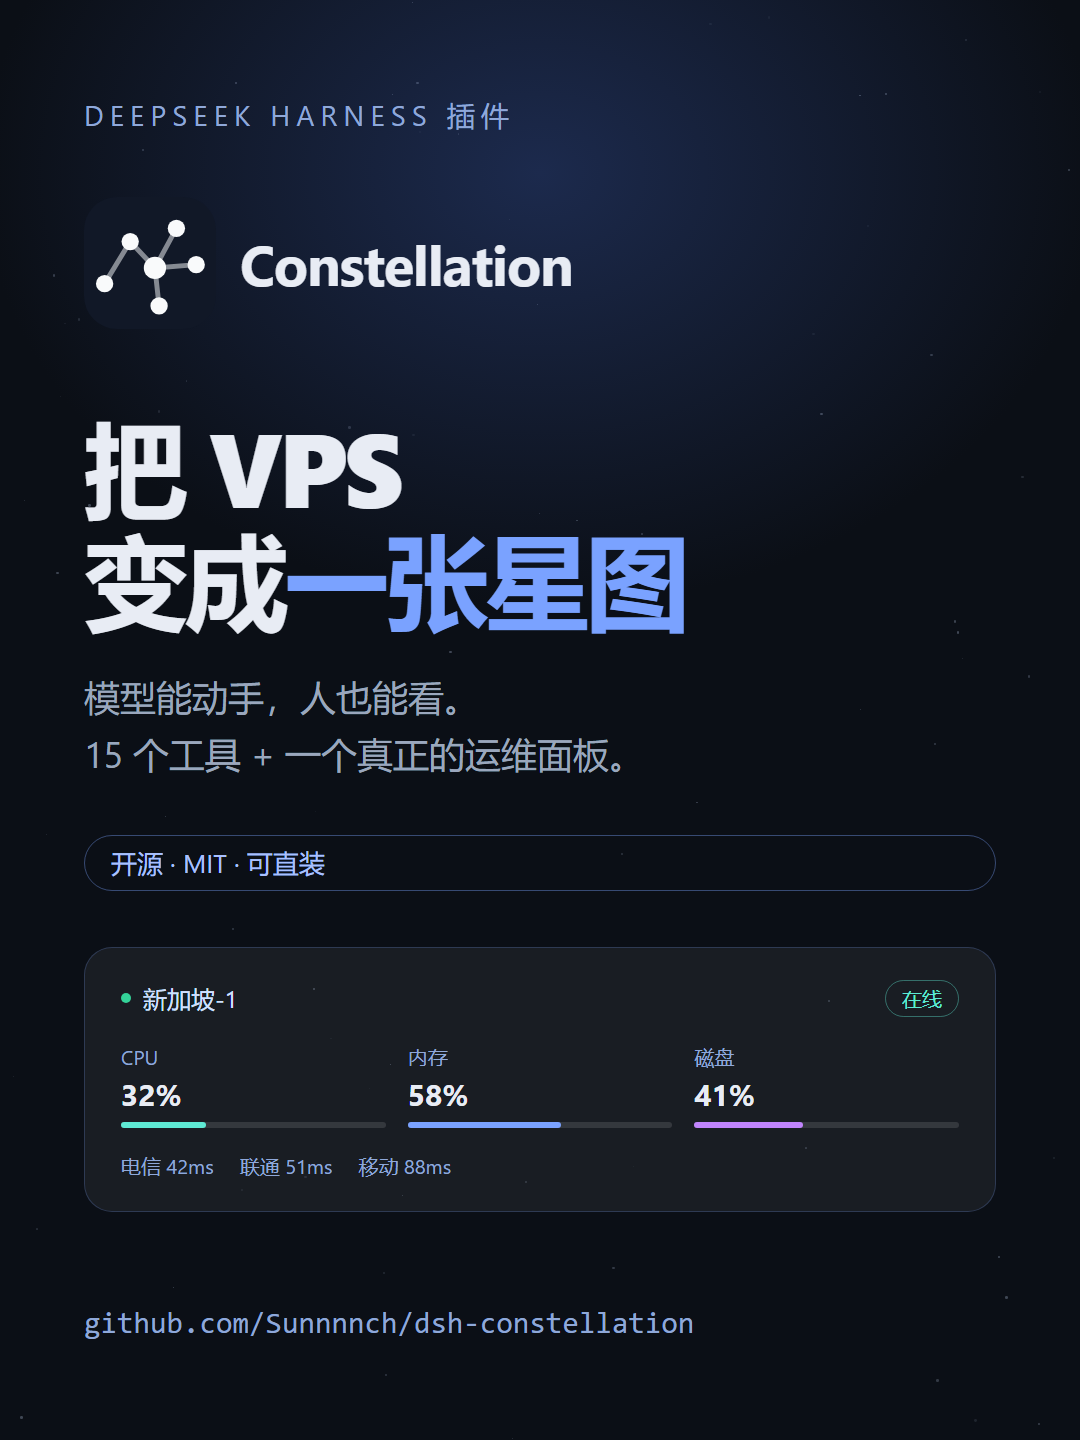
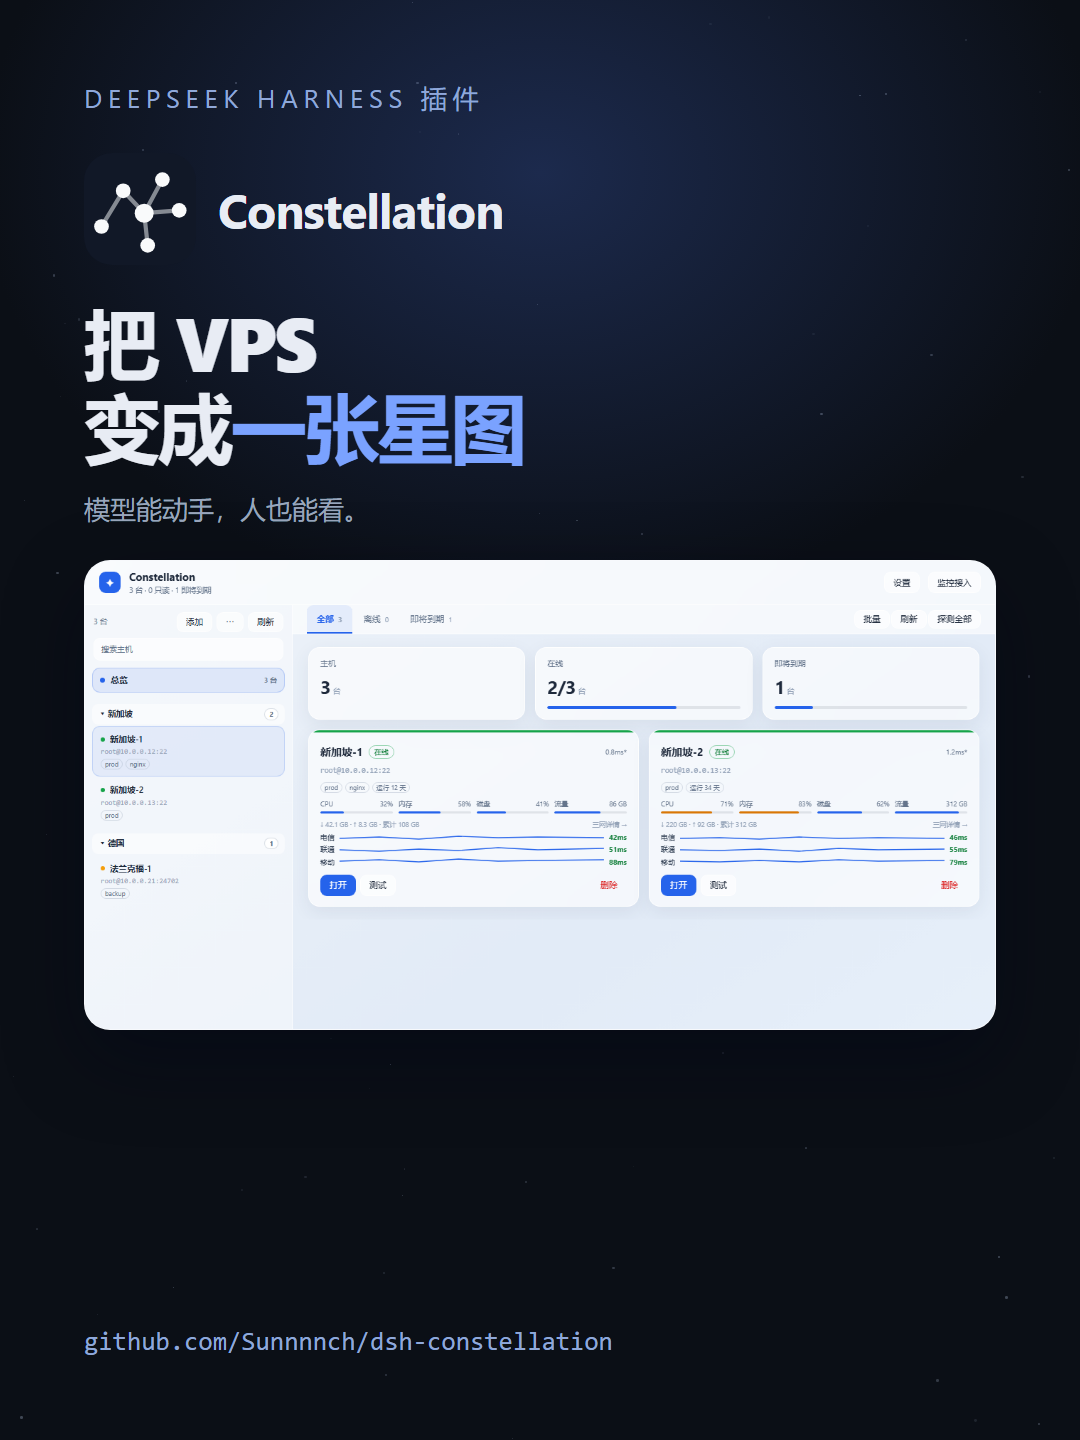
docs: rebuild Xiaohongshu carousel with real UI shots

diff --git a/marketing/xhs.html b/marketing/xhs.html
@@ -15,55 +15,64 @@
   section.dark { background: radial-gradient(900px 700px at 50% 12%, #1c2a4d 0%, #0b0f16 62%), #0b0f16; }
   section.light { background: linear-gradient(150deg, #eef3f9, #e2ebf7 55%, #e8f1fb); color: #1e293b; }
 
-  .pad { padding: 96px 84px; position: relative; display: flex; flex-direction: column; height: 100%; }
+  .pad { padding: 80px 84px; position: relative; display: flex; flex-direction: column; height: 100%; }
 
-  .kicker { font-size: 28px; letter-spacing: .22em; text-transform: uppercase; color: #8fa8d9; }
+  .kicker { font-size: 26px; letter-spacing: .22em; text-transform: uppercase; color: #8fa8d9; }
   .kicker.dim { color: #64748b; }
 
-  h1 { font-size: 104px; line-height: 1.08; font-weight: 800; letter-spacing: -.035em; margin-top: 30px; }
+  h1 { font-size: 84px; line-height: 1.1; font-weight: 800; letter-spacing: -.035em; margin-top: 24px; }
   h1 em { font-style: normal; color: #7aa2ff; }
-  .lead { font-size: 36px; line-height: 1.6; color: #9aa7bd; margin-top: 34px; }
+  .lead { font-size: 30px; line-height: 1.6; color: #9aa7bd; margin-top: 26px; }
   .lead.dark { color: #475569; }
 
-  .logo { width: 132px; height: 132px; }
-  .logo.sm { width: 92px; height: 92px; }
-  .brandline { display: flex; align-items: center; gap: 24px; }
-  .brandname { font-size: 56px; font-weight: 750; letter-spacing: -.02em; }
+  .logo { width: 112px; height: 112px; }
+  .logo.sm { width: 88px; height: 88px; }
+  .brandline { display: flex; align-items: center; gap: 22px; }
+  .brandname { font-size: 48px; font-weight: 750; letter-spacing: -.02em; }
 
   .spacer { flex: 1; }
-  .repo { font: 30px/1.4 ui-monospace, Consolas, monospace; color: #8fa8d9; }
+  .repo { font: 26px/1.4 ui-monospace, Consolas, monospace; color: #8fa8d9; }
   .repo.dark { color: #2563eb; }
 
-  .big { font-size: 220px; font-weight: 800; line-height: .9; letter-spacing: -.05em; }
-  .caps { font-size: 34px; color: #64748b; margin-top: 14px; }
+  /* UI shot */
+  .shot { border-radius: 26px; overflow: hidden; border: 1px solid rgba(255,255,255,.5); box-shadow: 0 30px 80px rgba(2,6,23,.45); background: #eef3f9; }
+  .shot img { display: block; width: 100%; height: auto; }
+  .shot.crop { height: 470px; }
+  .shot.crop img { height: 100%; object-fit: cover; object-position: top; }
+  .shot.light { border-color: rgba(255,255,255,.95); box-shadow: 0 26px 60px rgba(51,65,85,.18); }
 
-  /* cards */
-  .cards { display: flex; flex-direction: column; gap: 26px; margin-top: 54px; }
-  .row { background: rgba(255,255,255,.62); border: 1px solid rgba(255,255,255,.9); border-radius: 30px; padding: 34px 38px; display: flex; align-items: center; gap: 28px; box-shadow: 0 16px 40px rgba(51,65,85,.08); }
-  .row .ic { width: 74px; height: 74px; border-radius: 20px; background: #2563eb; color: #fff; display: grid; place-items: center; font-size: 34px; flex: none; }
-  .row h3 { font-size: 40px; font-weight: 700; }
-  .row p { font-size: 26px; color: #64748b; margin-top: 6px; line-height: 1.45; }
+  .chips { display: flex; gap: 14px; margin-top: 26px; }
+  .chip { flex: 1; background: rgba(255,255,255,.62); border: 1px solid rgba(255,255,255,.9); border-radius: 22px; padding: 20px 22px; }
+  .chip b { display: block; font-size: 30px; font-weight: 700; }
+  .chip span { font-size: 22px; color: #64748b; }
 
-  .compare { display: grid; grid-template-columns: 1fr 1fr; gap: 26px; margin-top: 60px; }
-  .col { border-radius: 30px; padding: 40px 34px; background: rgba(255,255,255,.62); border: 1px solid rgba(255,255,255,.9); }
+  /* compare */
+  .compare { display: grid; grid-template-columns: 1fr 1fr; gap: 22px; margin-top: 44px; }
+  .col { border-radius: 26px; padding: 32px 28px; background: rgba(255,255,255,.62); border: 1px solid rgba(255,255,255,.9); }
   .col.old { background: rgba(15,23,42,.06); }
-  .col h4 { font-size: 30px; color: #64748b; font-weight: 650; }
-  .col .term { margin-top: 22px; font: 24px/1.9 ui-monospace, Consolas, monospace; color: #475569; }
-  .col .nl { margin-top: 22px; font-size: 40px; font-weight: 650; line-height: 1.35; }
+  .col h4 { font-size: 26px; color: #64748b; font-weight: 650; }
+  .col .term { margin-top: 18px; font: 21px/1.9 ui-monospace, Consolas, monospace; color: #475569; }
+  .col .nl { margin-top: 18px; font-size: 32px; font-weight: 650; line-height: 1.35; }
   .col .nl b { color: #2563eb; }
 
-  .tag { display: inline-flex; align-items: center; height: 56px; padding: 0 26px; border-radius: 999px; border: 1px solid rgba(122,162,255,.4); color: #a9c0ff; font-size: 26px; }
-  .tags { display: flex; gap: 14px; flex-wrap: wrap; margin-top: 44px; }
+  /* security rows */
+  .cards { display: flex; flex-direction: column; gap: 20px; margin-top: 40px; }
+  .row { background: rgba(255,255,255,.62); border: 1px solid rgba(255,255,255,.9); border-radius: 26px; padding: 26px 30px; display: flex; align-items: center; gap: 22px; box-shadow: 0 14px 34px rgba(51,65,85,.07); }
+  .row .ic { width: 62px; height: 62px; border-radius: 18px; background: #2563eb; color: #fff; display: grid; place-items: center; font-size: 28px; flex: none; }
+  .row h3 { font-size: 34px; font-weight: 700; }
+  .row p { font-size: 23px; color: #64748b; margin-top: 4px; line-height: 1.45; }
+
+  .tag { display: inline-flex; align-items: center; height: 50px; padding: 0 24px; border-radius: 999px; border: 1px solid rgba(122,162,255,.4); color: #a9c0ff; font-size: 23px; }
 </style>
 </head>
 <body>
 
-<!-- 1 封面 -->
+<!-- 1 封面：标题 + 总览 UI -->
 <section id="s1" class="dark">
   <div class="stars" data-stars></div>
   <div class="pad">
     <div class="kicker">DeepSeek Harness 插件</div>
-    <div class="brandline" style="margin-top:64px">
+    <div class="brandline" style="margin-top:38px">
       <svg class="logo" viewBox="0 0 64 64" xmlns="http://www.w3.org/2000/svg">
         <rect width="64" height="64" rx="16" fill="#111827"/>
         <g stroke="#e5e7eb" stroke-width="2.4" stroke-linecap="round" stroke-linejoin="round" opacity=".55" fill="none">
@@ -76,22 +85,10 @@
       </svg>
       <div class="brandname">Constellation</div>
     </div>
-    <h1 style="margin-top:80px">把 VPS<br/>变成<em>一张星图</em></h1>
-    <div class="lead">模型能动手，人也能看。<br/>15 个工具 + 一个真正的运维面板。</div>
-    <div class="tag" style="margin-top:52px">开源 · MIT · 可直装</div>
-    <div style="margin-top:56px;background:rgba(255,255,255,.06);border:1px solid rgba(122,162,255,.22);border-radius:28px;padding:32px 36px">
-      <div style="display:flex;align-items:center;gap:12px;font-size:24px;color:#cfe0ff">
-        <span style="width:10px;height:10px;border-radius:50%;background:#34d399"></span>新加坡-1
-        <span style="margin-left:auto;font-size:20px;color:#5eead4;border:1px solid rgba(94,234,212,.4);border-radius:999px;padding:4px 16px">在线</span>
-      </div>
-      <div style="display:grid;grid-template-columns:repeat(3,1fr);gap:22px;margin-top:26px">
-        <div><div style="font-size:20px;color:#8fa8d9">CPU</div><div style="font-size:30px;font-weight:700;margin-top:4px">32%</div><div style="height:6px;border-radius:4px;background:rgba(255,255,255,.12);margin-top:8px"><div style="width:32%;height:100%;background:#5eead4;border-radius:4px"></div></div></div>
-        <div><div style="font-size:20px;color:#8fa8d9">内存</div><div style="font-size:30px;font-weight:700;margin-top:4px">58%</div><div style="height:6px;border-radius:4px;background:rgba(255,255,255,.12);margin-top:8px"><div style="width:58%;height:100%;background:#7aa2ff;border-radius:4px"></div></div></div>
-        <div><div style="font-size:20px;color:#8fa8d9">磁盘</div><div style="font-size:30px;font-weight:700;margin-top:4px">41%</div><div style="height:6px;border-radius:4px;background:rgba(255,255,255,.12);margin-top:8px"><div style="width:41%;height:100%;background:#c084fc;border-radius:4px"></div></div></div>
-      </div>
-      <div style="display:flex;gap:26px;margin-top:24px;font-size:20px;color:#8fa8d9">
-        <span>电信 42ms</span><span>联通 51ms</span><span>移动 88ms</span>
-      </div>
+    <h1 style="margin-top:34px;font-size:76px">把 VPS<br/>变成<em>一张星图</em></h1>
+    <div class="lead" style="margin-top:22px;font-size:26px">模型能动手，人也能看。</div>
+    <div class="shot crop" style="margin-top:30px">
+      <img src="../design/ui-overview.png" alt="总览界面" />
     </div>
     <div class="spacer"></div>
     <div class="repo">github.com/Sunnnnch/dsh-constellation</div>
@@ -102,7 +99,7 @@
 <section id="s2" class="light">
   <div class="pad">
     <div class="kicker dim">以前 vs 现在</div>
-    <h1 style="font-size:88px;margin-top:26px">不想再对着<br/>一堆 SSH 窗口</h1>
+    <h1 style="font-size:78px;margin-top:22px">不想再对着<br/>一堆 SSH 窗口</h1>
     <div class="compare">
       <div class="col old">
         <h4>以前</h4>
@@ -113,32 +110,61 @@
         <div class="nl">「看看 prod-3 的磁盘和 nginx 状态，<b>顺手重启一下</b>。」</div>
       </div>
     </div>
-    <div class="lead dark" style="margin-top:46px">模型和你用同一份清单、同一套审计，<br/>不用在聊天框和终端之间搬运。</div>
+    <div class="shot light" style="margin-top:34px;max-height:420px;overflow:hidden">
+      <img src="../design/ui-detail.png" alt="主机状态界面" style="width:100%;margin-top:-80px" />
+    </div>
     <div class="spacer"></div>
     <div class="repo dark">Constellation</div>
   </div>
 </section>
 
-<!-- 3 能力 -->
+<!-- 3 能力 + 总览图 -->
 <section id="s3" class="light">
   <div class="pad">
-    <div class="kicker dim">不只是个面板</div>
-    <h1 style="font-size:88px;margin-top:26px">看得见，<br/>也动得了</h1>
-    <div class="cards">
-      <div class="row"><div class="ic">◉</div><div><h3>状态页</h3><p>CPU / 内存 / 磁盘环形指标、24 小时曲线</p></div></div>
-      <div class="row"><div class="ic">⌘</div><div><h3>终端 · 文件 · 隧道</h3><p>SSH 会话、SFTP 传输、端口转发都在面板里</p></div></div>
-      <div class="row"><div class="ic">≋</div><div><h3>三网延迟</h3><p>服务器自己 ping 电信/联通/移动，带丢包趋势</p></div></div>
+    <div class="kicker dim">一个面板</div>
+    <h1 style="font-size:76px;margin-top:20px">看得见，<br/>也动得了</h1>
+    <div class="shot light crop" style="margin-top:32px">
+      <img src="../design/ui-overview.png" alt="总览界面" />
+    </div>
+    <div class="chips">
+      <div class="chip"><b>分组清单</b><span>按标签折叠</span></div>
+      <div class="chip"><b>三网小图</b><span>每台机器独立</span></div>
+      <div class="chip"><b>批量操作</b><span>勾选多台执行</span></div>
+    </div>
+    <div style="margin-top:26px;background:rgba(15,23,42,.94);border-radius:22px;padding:24px 30px;font:24px/1.75 ui-monospace,Consolas,monospace;color:#9fe7c8">
+      <div style="color:#8fa8d9;font-size:20px;margin-bottom:8px">模型侧，同一份清单</div>
+      vps_status · host=singapore-1<br/>
+      <span style="color:#7aa2ff">→</span> cpu 32% · mem 58% · disk 41%
     </div>
     <div class="spacer"></div>
     <div class="repo dark">github.com/Sunnnnch/dsh-constellation</div>
   </div>
 </section>
 
-<!-- 4 安全 -->
+<!-- 4 状态页 UI -->
 <section id="s4" class="light">
   <div class="pad">
+    <div class="kicker dim">单机详情</div>
+    <h1 style="font-size:76px;margin-top:20px">环形指标，<br/>三网趋势</h1>
+    <div class="shot light" style="margin-top:32px">
+      <img src="../design/ui-detail.png" alt="主机状态界面" />
+    </div>
+    <div class="chips">
+      <div class="chip"><b>CPU / 内存 / 磁盘</b><span>环形占比 + 明细</span></div>
+      <div class="chip"><b>三网 + 丢包</b><span>服务器自己 ping</span></div>
+      <div class="chip"><b>24h 曲线</b><span>每 30 秒采样</span></div>
+    </div>
+    <div style="margin-top:26px;font-size:26px;color:#64748b">点开任意一台主机，就是这一页。</div>
+    <div class="spacer"></div>
+    <div class="repo dark">Constellation · MIT</div>
+  </div>
+</section>
+
+<!-- 5 安全 -->
+<section id="s5" class="light">
+  <div class="pad">
     <div class="kicker dim">交给模型之前</div>
-    <h1 style="font-size:88px;margin-top:26px">四道闸，<br/>默认是关着的</h1>
+    <h1 style="font-size:76px;margin-top:20px">四道闸，<br/>默认是关着的</h1>
     <div class="cards">
       <div class="row"><div class="ic">!</div><div><h3>危险命令拦截</h3><p>rm -rf /、mkfs、改 /etc/passwd 直接拦下</p></div></div>
       <div class="row"><div class="ic">◇</div><div><h3>只读主机</h3><p>标记后只允许查询，变更命令全部拒绝</p></div></div>
@@ -150,19 +176,17 @@
   </div>
 </section>
 
-<!-- 5 CTA -->
-<section id="s5" class="dark">
+<!-- 6 CTA -->
+<section id="s6" class="dark">
   <div class="stars" data-stars></div>
   <div class="pad">
     <div class="kicker">开始用</div>
-    <h1 style="margin-top:30px;font-size:92px">一条命令<br/>装进你的 DSH</h1>
-    <div style="margin-top:56px;background:rgba(255,255,255,.06);border:1px solid rgba(122,162,255,.22);border-radius:26px;padding:38px 42px;font:32px/1.8 ui-monospace,Consolas,monospace;color:#cfe0ff">
+    <h1 style="margin-top:24px;font-size:84px">一条命令<br/>装进你的 DSH</h1>
+    <div style="margin-top:44px;background:rgba(255,255,255,.06);border:1px solid rgba(122,162,255,.22);border-radius:24px;padding:32px 36px;font:29px/1.8 ui-monospace,Consolas,monospace;color:#cfe0ff">
       pnpm add github:<br/>Sunnnnch/dsh-constellation
     </div>
-    <div class="lead" style="margin-top:44px">然后在 profile 里加上<br/><span style="color:#7aa2ff;font-family:ui-monospace,monospace">@sunrise/dsh-vps</span> 这个 bundle。</div>
-    <div style="margin-top:40px;font-size:30px;line-height:1.9;color:#9aa7bd">
-      适合：多机运维 · 自建服务 · 想让 AI 真正干活
-    </div>
+    <div class="lead" style="margin-top:34px;font-size:26px">然后在 profile 里加上<br/><span style="color:#7aa2ff;font-family:ui-monospace,monospace">@sunrise/dsh-vps</span> 这个 bundle。</div>
+    <div style="margin-top:30px;font-size:27px;line-height:1.9;color:#9aa7bd">适合：多机运维 · 自建服务 · 想让 AI 真正干活</div>
     <div class="spacer"></div>
     <div class="brandline">
       <svg class="logo sm" viewBox="0 0 64 64" xmlns="http://www.w3.org/2000/svg">
@@ -175,7 +199,7 @@
           <circle cx="44.8" cy="15.2" r="4.2"/><circle cx="54.4" cy="32.8" r="4.2"/><circle cx="36.4" cy="52.8" r="4.2"/>
         </g>
       </svg>
-      <div><div class="brandname" style="font-size:44px">Constellation</div><div class="repo" style="font-size:26px">github.com/Sunnnnch/dsh-constellation</div></div>
+      <div><div class="brandname" style="font-size:40px">Constellation</div><div class="repo" style="font-size:24px">github.com/Sunnnnch/dsh-constellation</div></div>
     </div>
   </div>
 </section>
